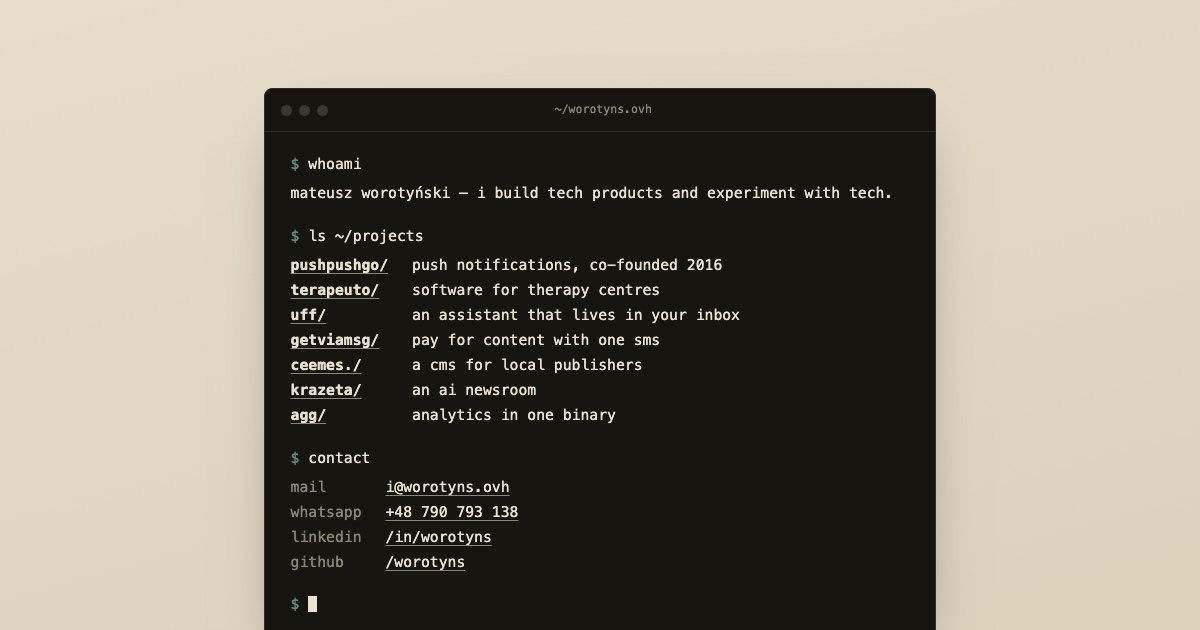
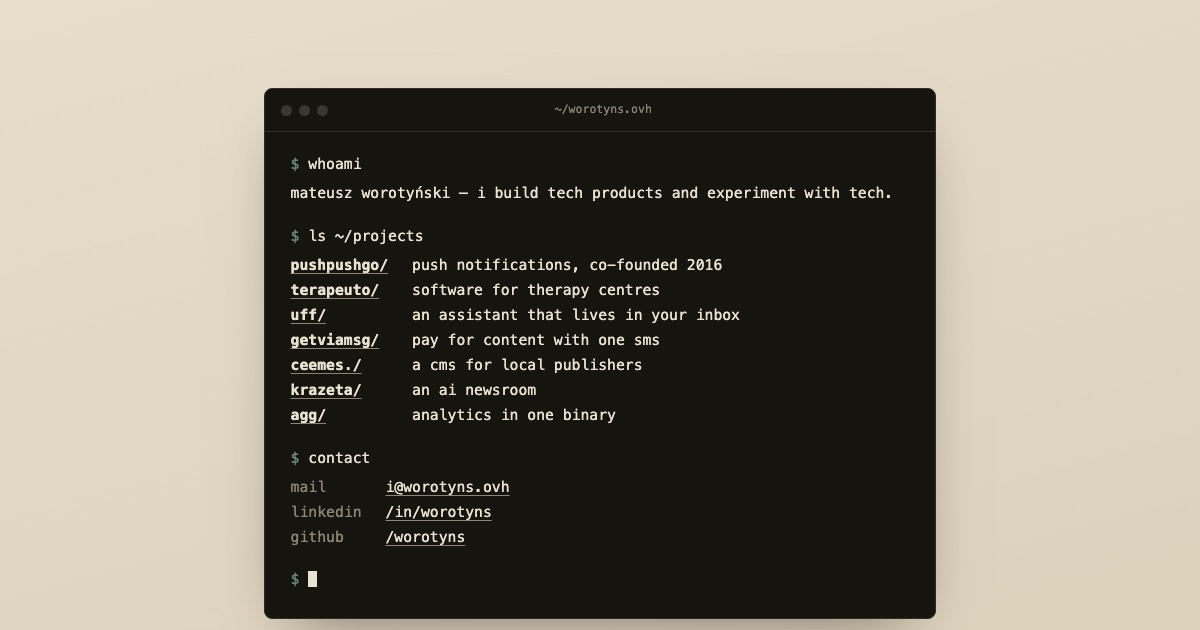
feat(site): drop whatsapp from contact

Changed region(s): [[0.2158, 0.7841, 0.8017, 1.0]]

diff --git a/index.html b/index.html
@@ -12,7 +12,7 @@
   <meta property="og:title" content="Mateusz Worotyński">
   <meta property="og:description" content="I build tech products and experiment with tech.">
   <meta property="og:url" content="https://worotyns.ovh/">
-  <meta property="og:image" content="https://worotyns.ovh/ogimage.jpg?v=abcaeeb3">
+  <meta property="og:image" content="https://worotyns.ovh/ogimage.jpg?v=07dc86e2">
   <meta name="twitter:card" content="summary_large_image">
 
   <link rel="apple-touch-icon" sizes="180x180" href="/apple-touch-icon.png">
@@ -46,7 +46,6 @@
     <p class="cmd">contact</p>
     <dl class="out">
       <dt>mail</dt><dd><a href="mailto:i@worotyns.ovh">i@worotyns.ovh</a></dd>
-      <dt>whatsapp</dt><dd><a href="https://wa.me/48790793138" rel="noopener" target="_blank">+48 790 793 138</a></dd>
       <dt>linkedin</dt><dd><a href="https://www.linkedin.com/in/worotyns" rel="me noopener" target="_blank">/in/worotyns</a></dd>
       <dt>github</dt><dd><a href="https://github.com/worotyns" rel="me noopener" target="_blank">/worotyns</a></dd>
     </dl>
